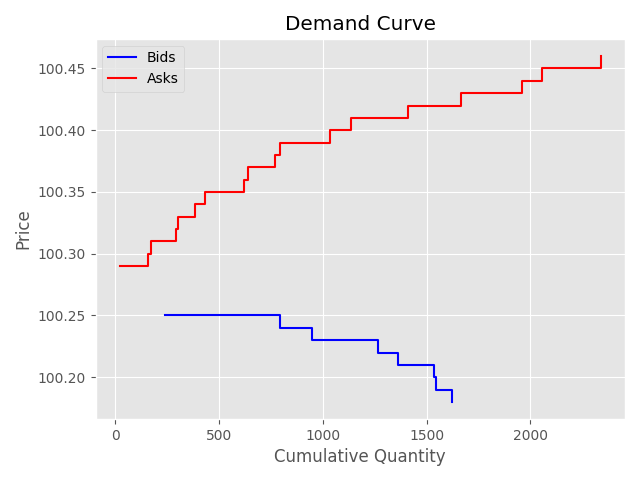
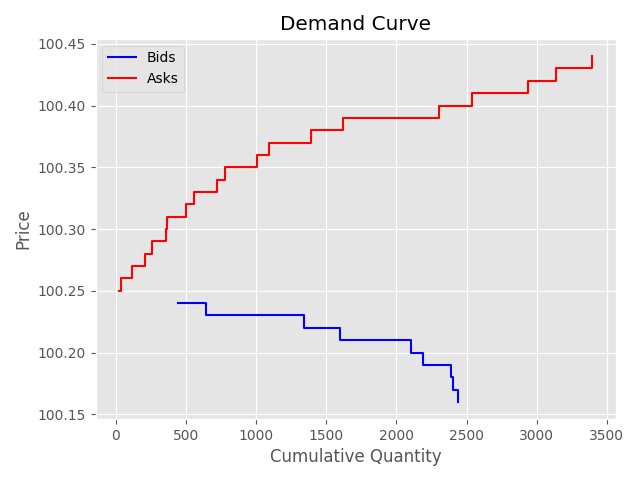
fixed the thing

diff --git a/src/agents.py b/src/agents.py
@@ -421,27 +421,31 @@ class InstitutionalTrader(BaseAgent):
             ts=t,
         )
         return dark_pool.submit_order(order)
+from dataclasses import dataclass
+
 class InformedTrader(BaseAgent):
     def __init__(
         self,
         trader_id: int,
         rng: np.random.Generator,
-        fundamental: FundamentalProcess,   # shared external process
+        fundamental: FundamentalProcess,
         sigma_s: float = 0.10,
         entry_threshold: float = 0.05,
         aggressive_threshold: float = 0.20,
         base_qty: int = 10,
         max_qty: int = 50,
         participation_rate: float = 0.8,
+        dark_fraction: float = 0.20,   # <-- 20% of volume routed to dark
     ):
         super().__init__(trader_id, rng)
-        self.fundamental = fundamental        # shared reference
+        self.fundamental = fundamental
         self.sigma_s = sigma_s
         self.entry_threshold = entry_threshold
         self.aggressive_threshold = aggressive_threshold
         self.base_qty = base_qty
         self.max_qty = max_qty
         self.participation_rate = participation_rate
+        self.dark_fraction = dark_fraction
 
     def _size_order(self, edge: float) -> int:
         scale = min(abs(edge) / self.aggressive_threshold, 1.0)
@@ -452,6 +456,7 @@ class InformedTrader(BaseAgent):
             return None
 
         signal = self.fundamental.observe(self.sigma_s, self.rng)
+
         mid = book.mid_price()
         if not np.isfinite(mid):
             mid = self.fundamental.value
@@ -461,14 +466,43 @@ class InformedTrader(BaseAgent):
             return None
 
         side: Side = "buy" if edge > 0 else "sell"
-        qty = self._size_order(edge)
+        total_qty = self._size_order(edge)
 
+        # -------- split lit / dark --------
+        dark_qty = int(total_qty * self.dark_fraction)
+        lit_qty = total_qty - dark_qty
+
+        # store dark order info so simulation can route it
+        self.pending_dark_order = (side, dark_qty) if dark_qty > 0 else None
+
+        # -------- lit order --------
         if abs(edge) >= self.aggressive_threshold:
-            return Order(self.new_oid(), self.trader_id, side, qty, price=None, ts=t)
+            return Order(self.new_oid(), self.trader_id, side, lit_qty, price=None, ts=t)
 
         bb, ba = book.best_bid(), book.best_ask()
         px = ba if side == "buy" else bb
-        if not np.isfinite(px):
-            return Order(self.new_oid(), self.trader_id, side, qty, price=None, ts=t)
 
-        return Order(self.new_oid(), self.trader_id, side, qty, price=float(px), ts=t)
+        if not np.isfinite(px):
+            return Order(self.new_oid(), self.trader_id, side, lit_qty, price=None, ts=t)
+
+        return Order(self.new_oid(), self.trader_id, side, lit_qty, price=float(px), ts=t)
+
+    def act_dark(self, t: int, dark_pool):
+        """
+        Send the stored dark portion of the informed order.
+        """
+        if not hasattr(self, "pending_dark_order") or self.pending_dark_order is None:
+            return None
+
+        side, qty = self.pending_dark_order
+        self.pending_dark_order = None
+
+        order = DarkPoolOrder(
+            order_id=self.new_oid(),
+            trader_id=self.trader_id,
+            side=side,
+            qty=qty,
+            ts=t,
+        )
+
+        return dark_pool.submit_order(order)

diff --git a/src/run.py b/src/run.py
@@ -366,7 +366,7 @@ def run_simulation(
                     trades_this_step.append(tr)
 
             # institutional traders also submit to the dark pool
-            if isinstance(agent, InstitutionalTrader):
+            if isinstance(agent, InstitutionalTrader) or isinstance(agent, InformedTrader):
                 dp_trades = agent.act_dark(t, dark_pool)
                 if dp_trades:
                     for tr in dp_trades:
